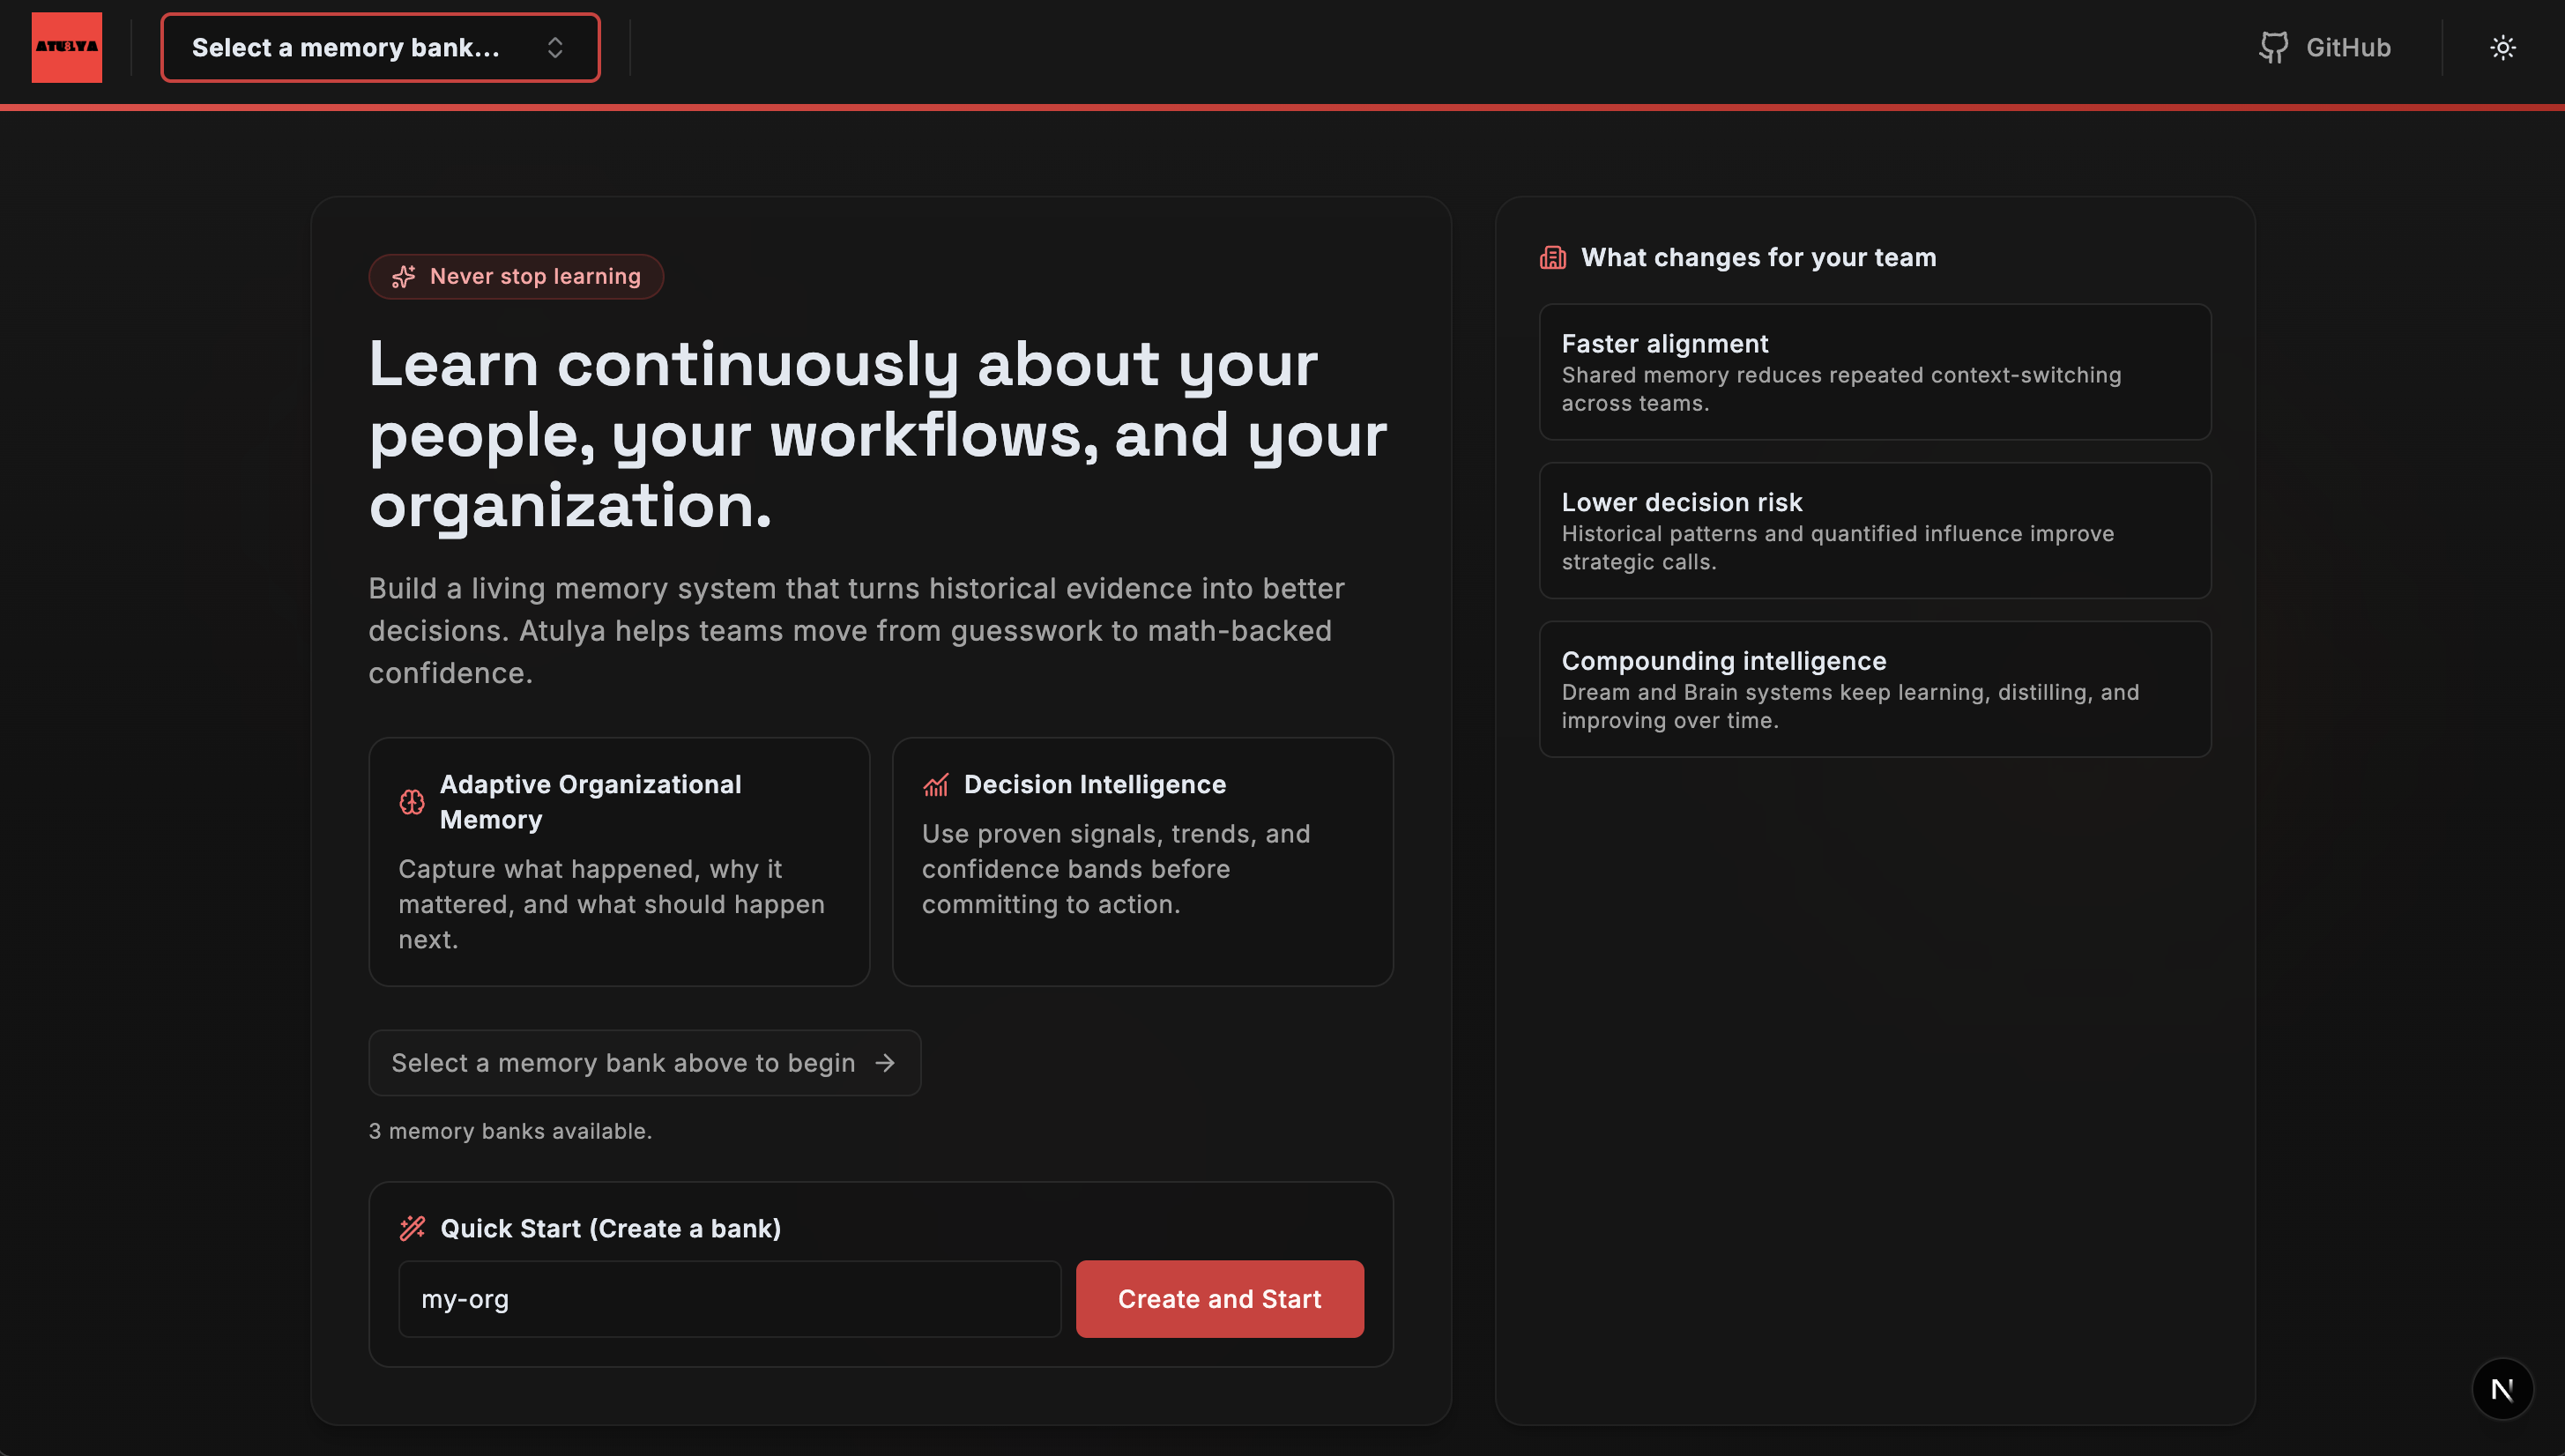
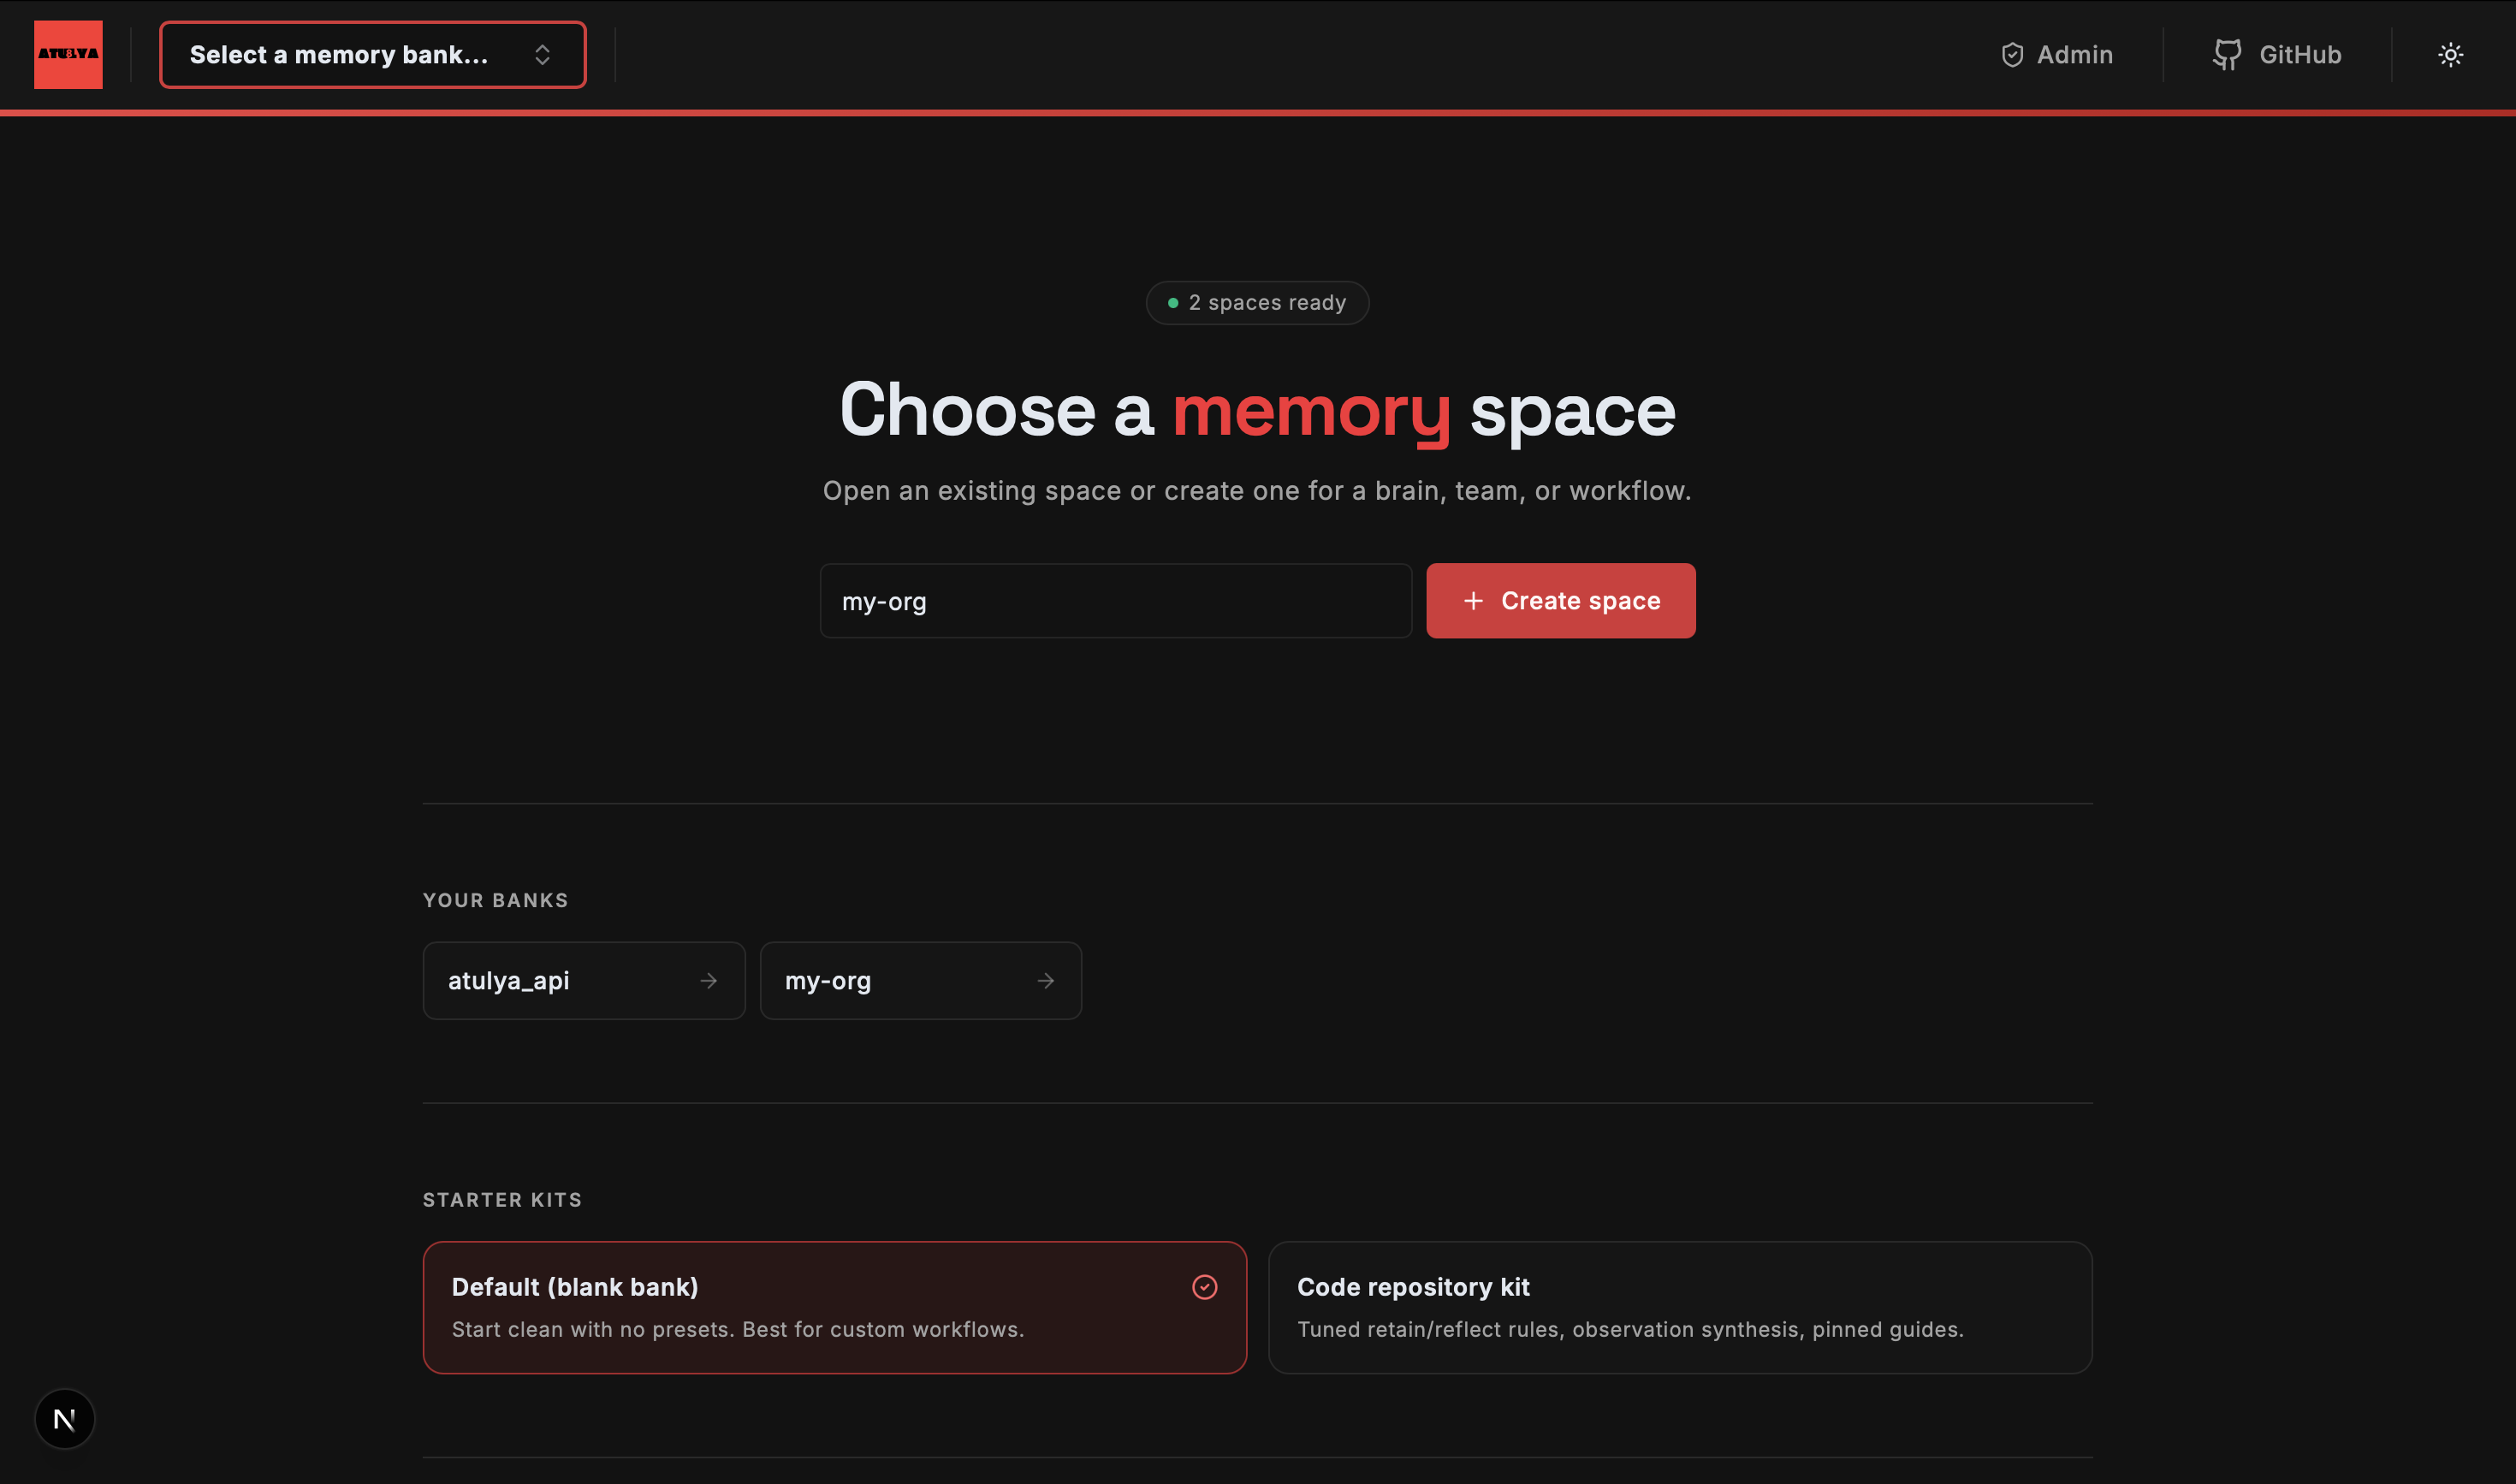
docs(readme): refresh landing image

diff --git a/README.md b/README.md
@@ -67,7 +67,7 @@ If you only read one extra file in this repository, read [ATULYA_PRINCIPLES.md](
 ## See it in action
 
 <p align="center">
-  <img src="./atulya-docs/static/img/atulya_landing_surface_light.png" alt="Atulya landing view" width="920" />
+  <img src="./atulya-docs/static/img/atulya_landing_surface_dark.png" alt="Atulya landing view" width="920" />
 </p>
 
 <p align="center">